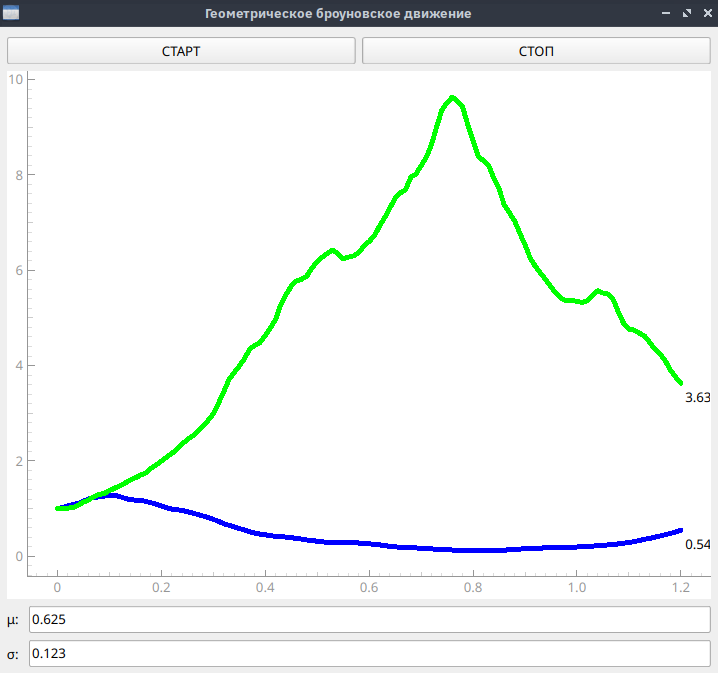
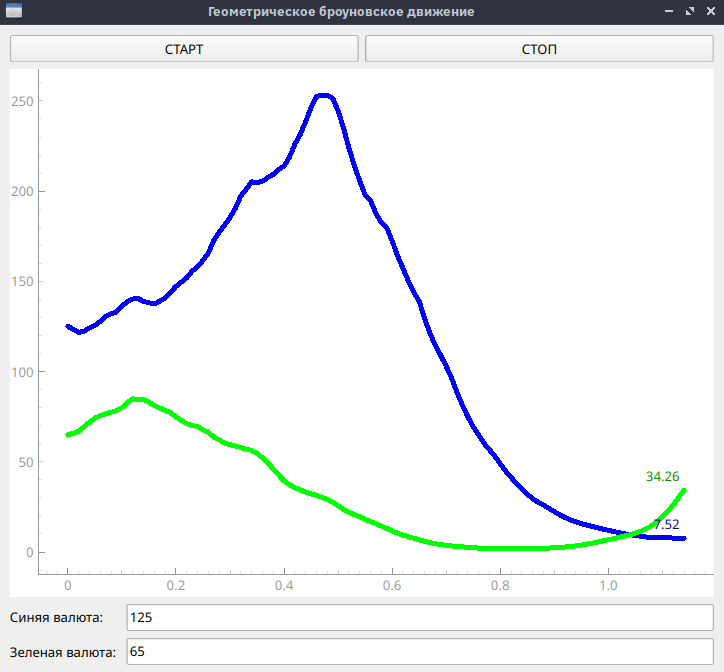
input fix

diff --git a/main.py b/main.py
@@ -18,12 +18,6 @@ from PyQt6.QtWidgets import (
 )
 from PyQt6.QtGui import QFont
 import pyqtgraph as QtGraph
-from enum import Enum
-
-class Weather(Enum):
-    SUNNY = 0
-    CLOUDY = 1
-    OVERCAST = 2
 
 class Graph(QtGraph.PlotWidget):
     def __init__(self):
@@ -49,10 +43,10 @@ class MainWindow(QMainWindow):
         # graph
         self.graph = Graph()
         params = QFormLayout()
-        self.mu_line = QLineEdit("0.625")
-        params.addRow("μ: ", self.mu_line)
-        self.sigma_line = QLineEdit("0.123")
-        params.addRow("σ: ", self.sigma_line)
+        self.start1 = QLineEdit("125")
+        params.addRow("Синяя валюта: ", self.start1)
+        self.start2 = QLineEdit("65")
+        params.addRow("Зеленая валюта: ", self.start2)
 
         layout = QVBoxLayout()
         layout.addLayout(panel)
@@ -65,9 +59,22 @@ class MainWindow(QMainWindow):
     def start(self):
         self.graph.clear()
         
-        self.currency1 = [1]
+        self.currency1 = []
+        try:
+            c = float(self.start1.text())
+            self.currency1.append(c)
+        except ValueError:
+            self.currency1.append(100)
+        
         self.w1 = [0]
-        self.currency2 = [1]
+
+        self.currency2 = []
+        try:
+            c = float(self.start2.text())
+            self.currency2.append(c)
+        except ValueError:
+            self.currency1.append(100)
+
         self.w2 = [0]
         self.t = [0]
         
@@ -88,15 +95,9 @@ class MainWindow(QMainWindow):
         
         nrm = default_rng().normal
 
-        try:
-            mu = float(self.mu_line.text()) # drift
-        except ValueError:
-            mu = 0.625
-        try:
-            sigma = float(self.sigma_line.text()) # volatility -- st deviation
-        except ValueError:
-            sigma = 0.123
-
+        mu = 0.625
+        sigma = 0.123
+        
         self.w1.append(self.w1[-1] + nrm()*np.sqrt(delta))
         coin1 = self.currency1[-1] * np.exp((mu - sigma**2 / 2)*(delta)+ sigma * self.w1[-1])
         self.currency1.append(coin1)
@@ -109,9 +110,9 @@ class MainWindow(QMainWindow):
         self.line2.setData(self.t, self.currency2)
     def stats(self):
         self.timer.stop()
-        text1 = QtGraph.TextItem(f'{self.currency1[-1]}', color=(0, 0, 0))
+        text1 = QtGraph.TextItem(f'{self.currency1[-1]:.2f}', color=(10, 10, 144), anchor=(1,1))
         text1.setPos(self.t[-1], self.currency1[-1])
-        text2 = QtGraph.TextItem(f'{self.currency2[-1]}', color=(0, 0, 0))
+        text2 = QtGraph.TextItem(f'{self.currency2[-1]:.2f}', color=(10, 144, 10), anchor=(1,1))
         text2.setPos(self.t[-1], self.currency2[-1])
         self.graph.addItem(text1)
         self.graph.addItem(text2)
